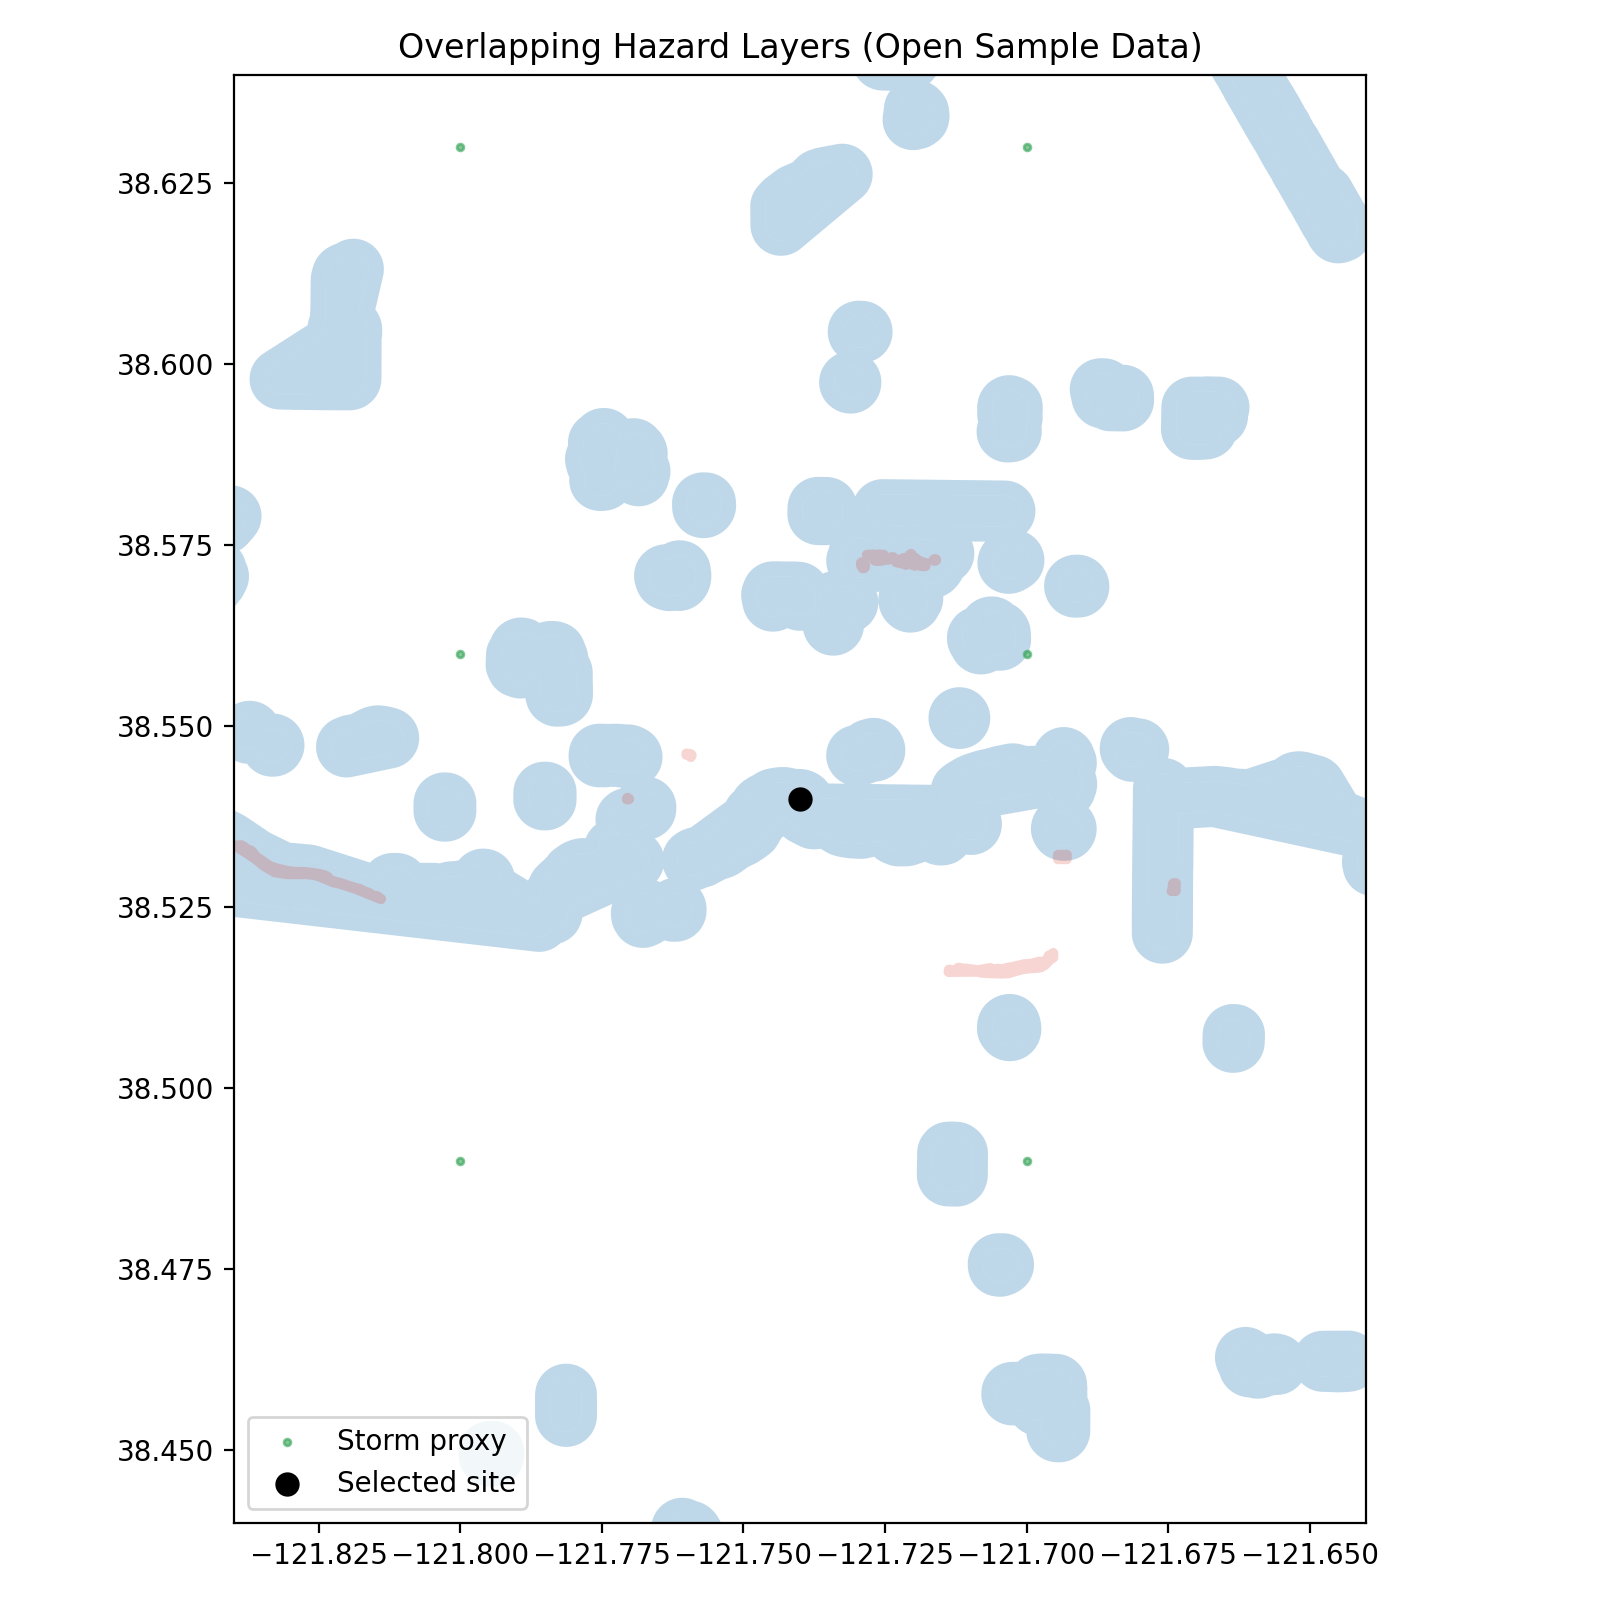
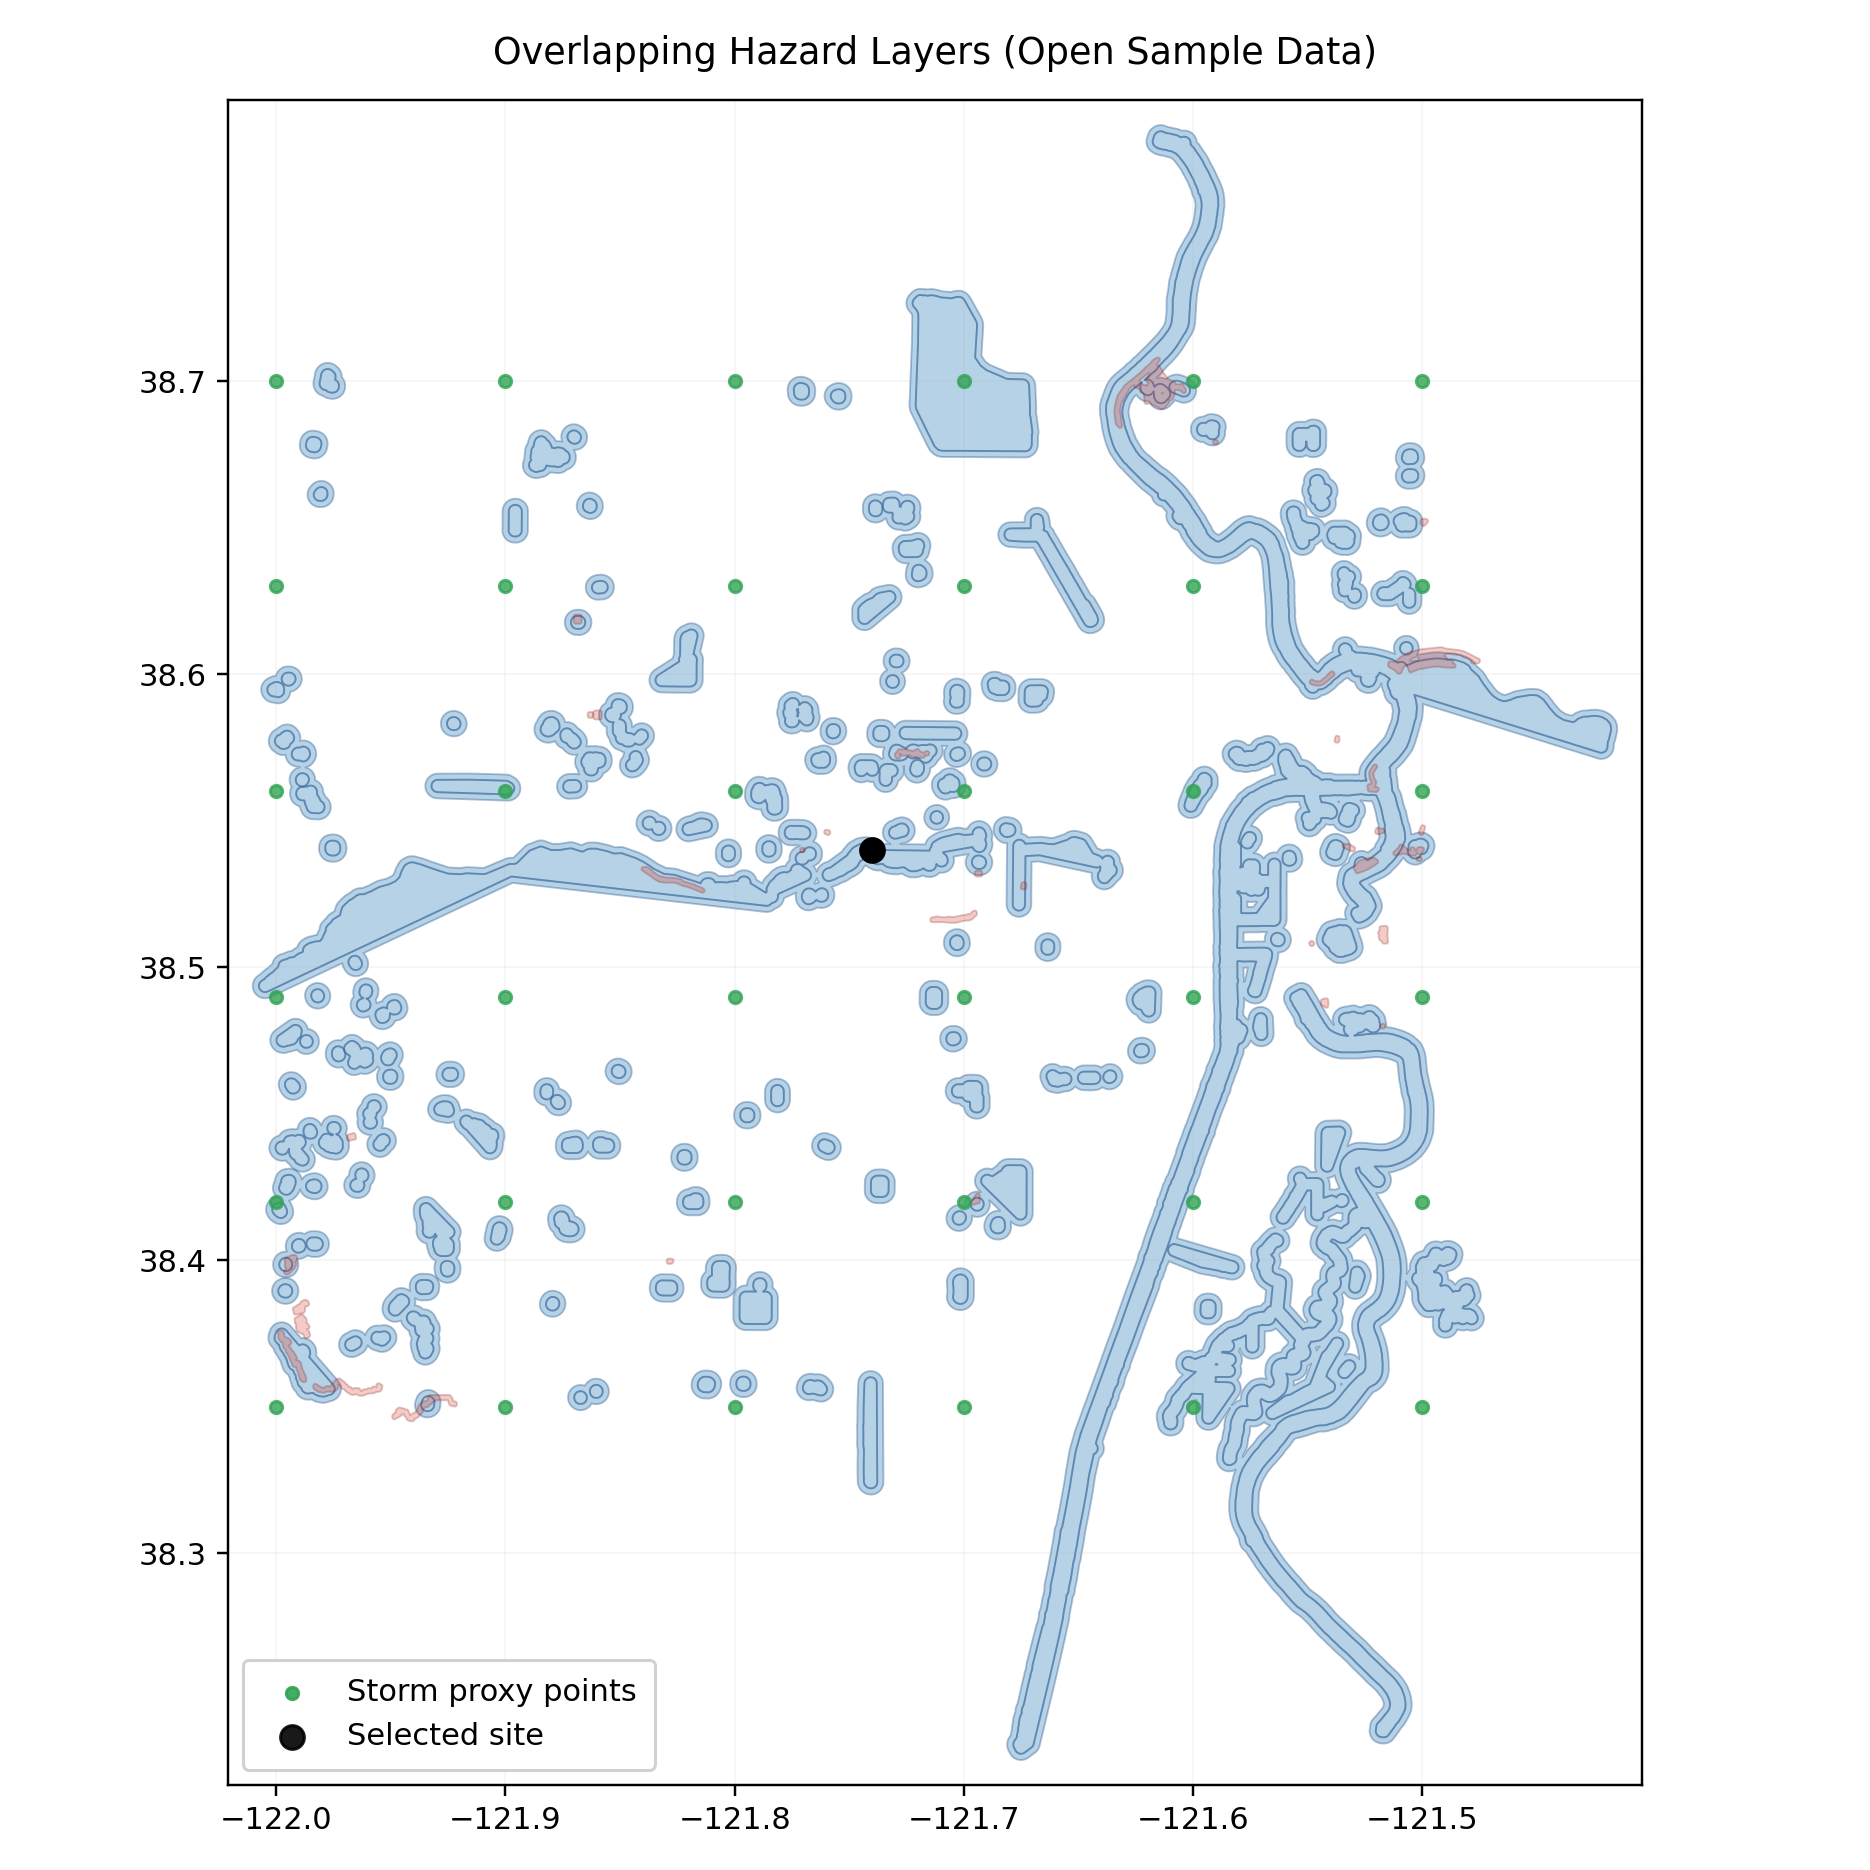
stage one complete [] map not working []local llm connect

diff --git a/src/rag_answer.py b/src/rag_answer.py
@@ -1,24 +1,41 @@
-import json, requests, chromadb
+import os
+import json
+import requests
+import numpy as np
+import chromadb
 from chromadb.config import Settings
 from sentence_transformers import SentenceTransformer
-from .config import RAG_INDEX_DIR
+from src.config import RAG_INDEX_DIR  # ABSOLUTE import, not relative
 
+# Embedder (small model; loaded once)
 EMB = SentenceTransformer("all-MiniLM-L6-v2")
 
-def _retrieve(query, k=4):
-    client = chromadb.PersistentClient(path=str(RAG_INDEX_DIR),
-                                       settings=Settings(anonymized_telemetry=False))
+def _retrieve(query: str, k: int = 4) -> str:
+    client = chromadb.PersistentClient(
+        path=str(RAG_INDEX_DIR),
+        settings=Settings(anonymized_telemetry=False),
+    )
     col = client.get_or_create_collection("hazards")
     qemb = EMB.encode([query], convert_to_numpy=True)
     res = col.query(query_embeddings=qemb.tolist(), n_results=k)
     docs = res.get("documents", [[]])[0]
     return "\n\n".join(docs) if docs else ""
 
-def _ollama_generate_http(prompt, model="phi3:mini", timeout=60):
+def _ollama_generate_http(prompt: str, model: str | None = None, timeout: int = 60) -> str:
+    model = model or os.environ.get("HAZARD_LLM_MODEL", "phi3:mini")
     try:
         r = requests.post(
             "http://127.0.0.1:11434/api/generate",
-            json={"model": model, "prompt": prompt, "stream": False},
+            json={
+                "model": model,
+                "prompt": prompt,
+                "stream": False,
+                "options": {
+                    "num_ctx": 1024,
+                    "num_predict": 160,
+                    "temperature": 0.4,
+                },
+            },
             timeout=timeout,
         )
         r.raise_for_status()
@@ -28,18 +45,50 @@ def _ollama_generate_http(prompt, model="phi3:mini", timeout=60):
         return f"(Local LLM unavailable: {e})"
 
 def explain(feats: dict, label: str) -> str:
-    q = f"flood={feats.get('fema_zone')}, fire={feats.get('fire_class')}, pga={feats.get('pga_g')}, storms5km={feats.get('storm_count_5km')}"
+    """Return a short explanation from the local LLM; fall back to a rule-based text if needed."""
+    q = (
+        f"flood={feats.get('fema_zone')}, "
+        f"fire={feats.get('fire_class')}, "
+        f"pga={feats.get('pga_g')}, "
+        f"storms5km={feats.get('storm_count_5km')}"
+    )
     ctx = _retrieve(q, k=4)
     prompt = f"""
 Write 3–5 clear sentences for a homeowner.
 
 Overall risk: {label}
-Data:
+Data (JSON):
 {json.dumps(feats, indent=2)}
 
 Use the reference notes when helpful:
 {ctx}
 
-Explain the main drivers and give 1–2 practical mitigation steps.
+Explain the main drivers of the risk and give one or two practical mitigation steps.
 """
-    return _ollama_generate_http(prompt)
+    resp = _ollama_generate_http(prompt)
+
+    # If Ollama is not available, return a deterministic explanation
+    if resp.lower().startswith("(local llm unavailable"):
+        flood = feats.get("fema_zone") or "None"
+        fire = feats.get("fire_class") or "None"
+        pga = feats.get("pga_g") or 0.0
+        storms = int(feats.get("storm_count_5km") or 0)
+
+        tips = []
+        if str(flood).upper().startswith("A"):
+            tips.append("elevating the foundation and improving site drainage")
+        if "high" in str(fire).lower():
+            tips.append("using ember-resistant vents and keeping defensible space clear")
+        if (pga or 0) >= 0.2:
+            tips.append("adding basic seismic anchoring and securing heavy furnishings")
+        if storms >= 2:
+            tips.append("upsizing gutters and adding overflow paths for heavy rain")
+
+        tiptext = "; ".join(tips) if tips else "following local building codes and standard site preparation"
+        return (
+            f"Overall risk is {label}. Flood zone={flood}, fire class={fire}, "
+            f"estimated shaking (PGA)≈{pga}, and storm events within 5 km={storms}. "
+            f"These factors together drive the rating. Consider mitigation steps such as {tiptext}."
+        )
+
+    return resp

diff --git a/src/app_streamlit.py b/src/app_streamlit.py
@@ -65,49 +65,4 @@ if "feats" in st.session_state:
     if st.button("Explain my risk (local LLM)"):
         with st.spinner("Generating local explanation..."):
             txt = explain(feats, label)
-            st.write(txt)
-import json, requests, chromadb
-from chromadb.config import Settings
-from sentence_transformers import SentenceTransformer
-from .config import RAG_INDEX_DIR
-
-EMB = SentenceTransformer("all-MiniLM-L6-v2")
-
-def _retrieve(query, k=4):
-    client = chromadb.PersistentClient(path=str(RAG_INDEX_DIR),
-                                       settings=Settings(anonymized_telemetry=False))
-    col = client.get_or_create_collection("hazards")
-    qemb = EMB.encode([query], convert_to_numpy=True)
-    res = col.query(query_embeddings=qemb.tolist(), n_results=k)
-    docs = res.get("documents", [[]])[0]
-    return "\n\n".join(docs) if docs else ""
-
-def _ollama_generate_http(prompt, model="phi3:mini", timeout=60):
-    try:
-        r = requests.post(
-            "http://127.0.0.1:11434/api/generate",
-            json={"model": model, "prompt": prompt, "stream": False},
-            timeout=timeout,
-        )
-        r.raise_for_status()
-        js = r.json()
-        return js.get("response", "").strip() or "(No response)"
-    except Exception as e:
-        return f"(Local LLM unavailable: {e})"
-
-def explain(feats: dict, label: str) -> str:
-    q = f"flood={feats.get('fema_zone')}, fire={feats.get('fire_class')}, pga={feats.get('pga_g')}, storms5km={feats.get('storm_count_5km')}"
-    ctx = _retrieve(q, k=4)
-    prompt = f"""
-Write 3–5 clear sentences for a homeowner.
-
-Overall risk: {label}
-Data:
-{json.dumps(feats, indent=2)}
-
-Use the reference notes when helpful:
-{ctx}
-
-Explain the main drivers and give 1–2 practical mitigation steps.
-"""
-    return _ollama_generate_http(prompt)
+        st.write(txt)

diff --git a/src/render_map.py b/src/render_map.py
@@ -37,12 +37,22 @@ def render_map(lon, lat, outfile):
     # storms are points; buffer a little in meters to include them in extent if present
     storms_u = None
     if not storms.empty:
-        storms_u = unary_union(storms.to_crs(3857).buffer(300)).to_crs(4326)
+        storms_m = storms.to_crs(3857)              # project to meters
+        storms_buf = storms_m.buffer(300)           # 300 m buffer
+        storms_u_m = unary_union(storms_buf)        # shapely geometry in 3857
+        if storms_u_m is not None and not storms_u_m.is_empty:
+            storms_u = (
+                gpd.GeoSeries([storms_u_m], crs=3857)
+                .to_crs(4326)
+                .geometry.iloc[0]
+            )
 
-    # choose a tight extent that includes site + any hazards
-    extent = _tight_bounds_with_padding(
-        [site.geometry.iloc[0], fema_u, cal_u, usgs_u, storms_u], pad_m=1200
-    )
+    extent_geoms = [
+        geom
+        for geom in (fema_u, cal_u, usgs_u, storms_u, site.geometry.iloc[0])
+        if geom is not None and not geom.is_empty
+    ]
+    extent = _tight_bounds_with_padding(extent_geoms)
     if extent is None:
         # fall back to +/- 0.1 deg around site
         extent = (lon-0.1, lat-0.1, lon+0.1, lat+0.1)
